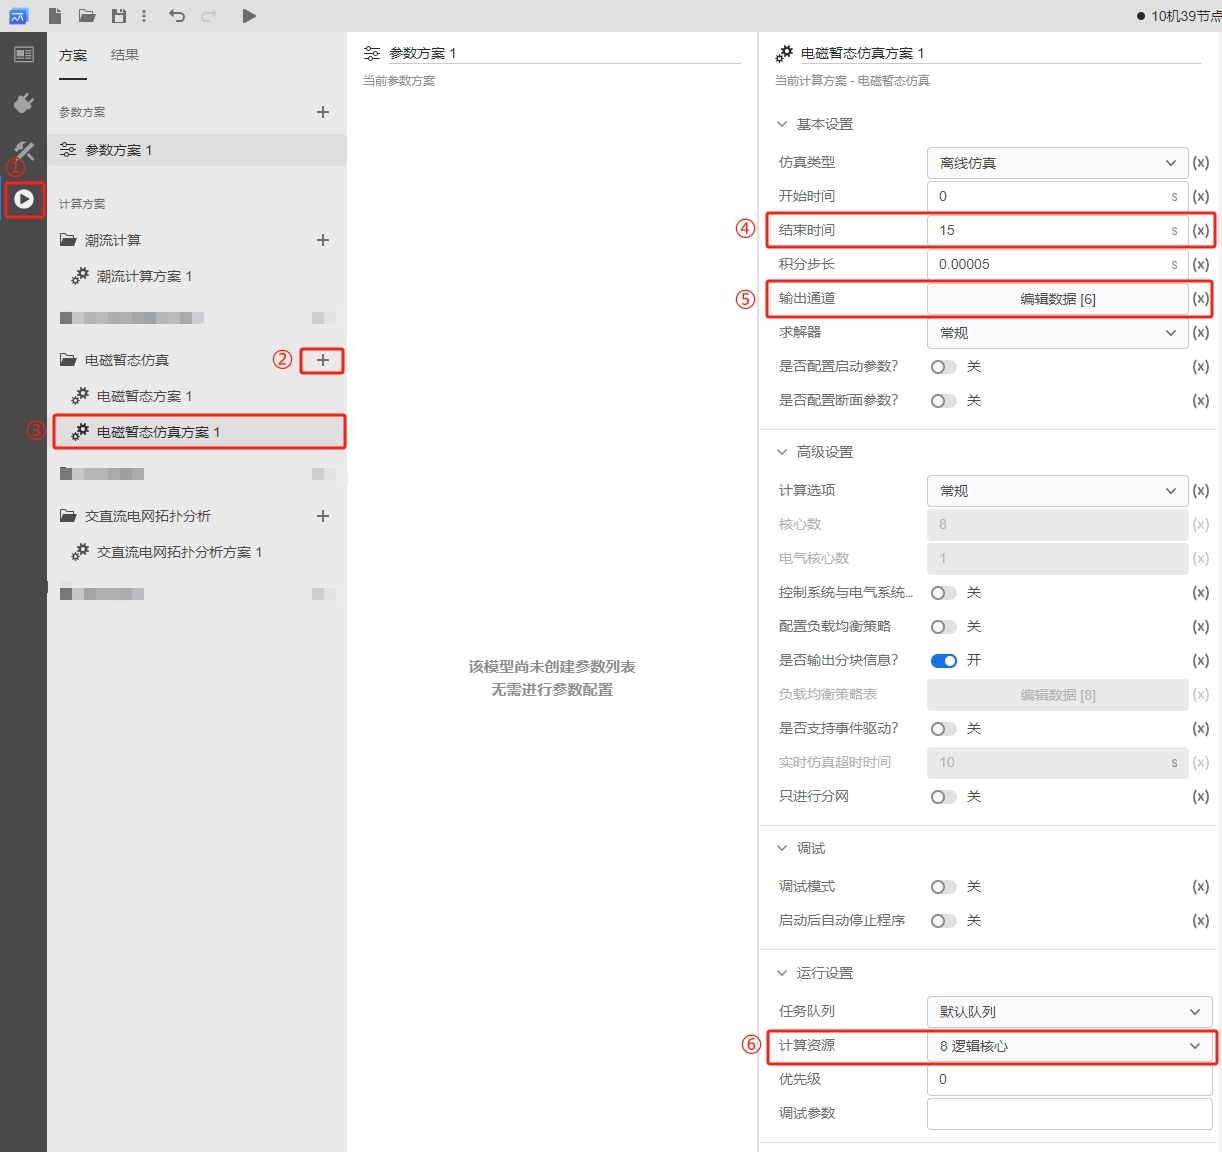
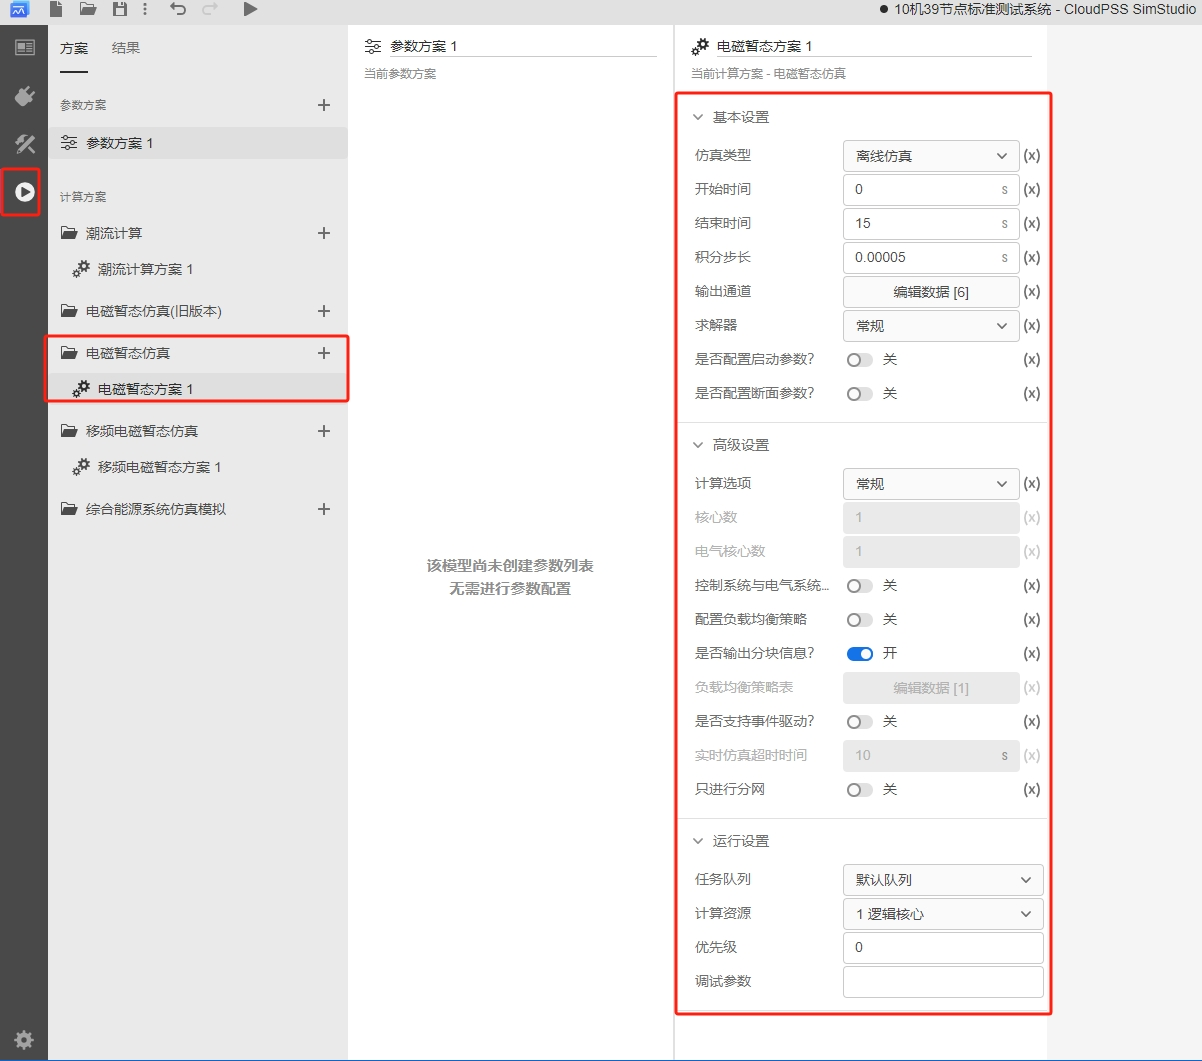
docs: 修改EMTLab文档

diff --git a/docs/docs/software/emtlab/fast-intro/build/index.md b/docs/docs/software/emtlab/fast-intro/build/index.md
@@ -3,14 +3,14 @@ title: 搭建入门案例
 description: 搭建入门案例
 sidebar_position: 20
 ---
-本节主要介绍两个入门案例：RLC电路的电磁暂态仿真和五节点电力网络的潮流计算仿真，用户可通过搭建入门案例熟悉 EMTLab 的电磁暂态仿真和潮流计算仿真的使用。
+本节主要介绍两个入门案例：RLC 电路的电磁暂态仿真和五节点电力网络的潮流计算仿真，用户可通过搭建入门案例熟悉 EMTLab 的电磁暂态仿真和潮流计算仿真的使用。
 
 import Tabs from '@theme/Tabs';
 import TabItem from '@theme/TabItem';
 
 <Tabs>
-<TabItem value="case1" label="RLC电路的电磁暂态仿真">
-本案例主要介绍简单RLC串联电路的搭建及仿真过程。该RLC串联电路由单相交流电压源、电阻、电感、电容元件组成。
+<TabItem value="case1" label="RLC 电路的电磁暂态仿真">
+本案例主要介绍简单 RLC 串联电路的搭建及仿真过程。该 RLC 串联电路由单相交流电压源、电阻、电感、电容元件组成。
 
 #### 放置元件
 - 首先在 CloudPSS SimStudio 工作台，点击新建电力系统仿真项目。
@@ -21,7 +21,7 @@ import TabItem from '@theme/TabItem';
 
 ![放置元件界面 =x400](./place-components.png)
 
-- 可利用鼠标长按元件进行拖动或选中元件后用**键盘方向键**改变元件位置。可以**鼠标右键**点击元件进行元件的剪切、复制、粘贴、创建副本、删除、隐藏元件名称等操作，或者通过快捷键快速实现上述操作。点击元件上方的圆形箭头或利用 `Ctrl+R` 对元件进行旋转。元件放置结束后的工作空间如上图所示。
+- 可利用鼠标长按元件进行拖动或选中元件后用**键盘方向键**改变元件位置。可以**鼠标右键**点击元件进行元件的剪切、复制、粘贴、创建副本、删除、隐藏元件名称等操作，或者通过快捷键快速实现上述操作。点击元件上方的圆形箭头或利用 `Ctrl` + `R` 对元件进行旋转。元件放置结束后的工作空间如上图所示。
 
 #### 连接元件
 - 将鼠标光标移至元件引脚处，若该引脚出现蓝色圆形阴影，说明该引脚可用。此时单击该引脚，按住**鼠标左键**并移动光标至需要被连线的引脚处，当该引脚处出现橙色边框，松开**鼠标左键**即完成两个元件的连线。在连线后，选中连线并在连线路径上单击**鼠标左键**可以在该处设置拐点，拐点可以被拖动调整位置。元件连接示例如图所示。
@@ -44,15 +44,15 @@ import TabItem from '@theme/TabItem';
 ![设置参数界面 =x300](parameter-setting.png)
 
 #### 添加测量元件
-- 完成电路拓扑的搭建之后，需添加量测元件对电气量进行测量或输出，常用的量测元件有**电压表**、**支路电压表**以及**电流表**。以电压表为例，在左侧**模型**栏中点击**量测**选择**电压表**元件拖拽至工作空间，并连接至电路。点击该元件出现参数配置面板，填写该电压表测得电压信号的名称，以 # 号开头。
+- 完成电路拓扑的搭建之后，需添加量测元件对电气量进行测量或输出，常用的量测元件有**电压表**、**支路电压表**以及**电流表**。以电压表为例，在左侧**模型**栏中点击**量测**选择**电压表**元件拖拽至工作空间，并连接至电路。点击该元件出现参数配置面板，填写该电压表测得电压信号的名称，以 `#` 号开头。
 
 ![添加电压表并进行配置 =x200](measure-setting.png)
 
-- 此外，电气元件本身支持部分内部量输出，也即不需要外加量测元件，也可以输出测量信号。如在电阻元件中添加量测，点击电阻元件,在参数的 Monitoring 中填写以 # 号开头的量测信号输出名称即可。更多关于信号名称的信息，详见：[参数及引脚体系](../../simstudio/basic/parameterSystem/index.md)
+- 此外，电气元件本身支持部分内部量输出，也即不需要外加量测元件，也可以输出测量信号。如在电阻元件中添加量测，点击电阻元件,在参数的 `Monitoring` 中填写以 `#` 号开头的量测信号输出名称即可。更多关于信号名称的信息，详见：[参数及引脚体系](../../simstudio/basic/parameterSystem/index.md)
 
 #### 添加输出通道
 - 量测元件只对电气量进行采集，如需显示还需加入输出元件。 EMTLab 的输出波形显示需同时用到示波器分组以及输出通道。输出通道类比与实际物理示波器的探头，示波器分组类比于任意通道数的实际物理示波器。
-- 在左侧**模型**栏中点击**输出**选择**输出通道**元件拖拽至工作空间，单击设置参数，如下图所示。通道名称设定为：电压源端电压，输入信号维数设定为 1，因为采集得到的电压源端电压为 1 维。输入引脚填写为以 # 号开头的电压表测量输出信号名称 #Vs。
+- 在左侧**模型**栏中点击**输出**选择**输出通道**元件拖拽至工作空间，单击设置参数，如下图所示。通道名称设定为：电压源端电压，输入信号维数设定为 1，因为采集得到的电压源端电压为 1 维。输入引脚填写为以 `#` 号开头的电压表测量输出信号名称 `#Vs`。
 
 ![配置输出通道 =x300](./output-setting.png)
 
@@ -62,7 +62,7 @@ import TabItem from '@theme/TabItem';
 
 #### 仿真运行方法
 - 点击左侧**运行标签页**，分别配置仿真的**参数方案**和**计算方案**。参数方案是对该项目的参数列表的参数进行配置。在计算方案中选择**电磁暂态仿真方案**，可对电磁暂态仿真方案中的仿真参数进行配置（如，基本设置、 求解器设置、启动/断面参数）。其中，示波器分组可在**电磁暂态仿真方案->输出通道->编辑数据**进行设置，点击**输出通道->编辑数据**，弹出输出通道页面，可以对示波器分组名称、采样频率、窗口类型、窗口宽度、示波器输出通道进行设置。
-- 由于本算例比较简单，在此采用平台预置**参数方案**，无需对其进行配置，在计算方案中选择**电磁暂态仿真方案**设置仿真结束时间为2s，积分步长为0.00001s，如下图所示:
+- 由于本算例比较简单，在此采用平台预置**参数方案**，无需对其进行配置，在计算方案中选择**电磁暂态仿真方案**设置仿真结束时间为 2s，积分步长为 0.00001s，如下图所示:
 
 ![电磁暂态仿真方案设置 =x450](./running-setting.png)
 
@@ -79,7 +79,7 @@ import TabItem from '@theme/TabItem';
 本案例主要介绍五节点电力网络的搭建及仿真过程。该五节点电力网络由发电机、变压器、传输线、负荷及交流母线组成。
 
 #### 五节点电力网络潮流计算原理
-如图所示。母线 1、2、3 为PQ节点，各节点的负荷分别为：${S_1} = 1.6 + j0.8$,${S_2} = 2 + j1$,${S_3} = 3.7 + j1.3$;节点 4 为 PV 节点，给定 ${P_4} = 5$,${V_4} = 1.05$;节点5为平衡节点，给定 ${V_5} = 1.05 \angle {0^ \circ }$。
+如图所示。母线 1、2、3 为 PQ 节点，各节点的负荷分别为：${S_1} = 1.6 + j0.8$,${S_2} = 2 + j1$,${S_3} = 3.7 + j1.3$;节点 4 为 PV 节点，给定 ${P_4} = 5$,${V_4} = 1.05$;节点 5 为平衡节点，给定 ${V_5} = 1.05 \angle {0^ \circ }$。
 
 ![五节点电力网络仿真图 =x300](./schematic.png)
 
@@ -114,7 +114,7 @@ import TabItem from '@theme/TabItem';
 
 ![放置元件界面 =x400](./place-components-1.png)
 
-- 可利用鼠标长按元件进行拖动或选中元件后用**键盘方向键**改变元件位置。可以**鼠标右键**点击元件进行元件的剪切、复制、粘贴、创建副本、删除、隐藏元件名称等操作，或者通过快捷键快速实现上述操作。点击元件上方的圆形箭头或利用 `Ctrl+R` 对元件进行旋转。元件放置结束后的工作空间如上图所示。
+- 可利用鼠标长按元件进行拖动或选中元件后用**键盘方向键**改变元件位置。可以**鼠标右键**点击元件进行元件的剪切、复制、粘贴、创建副本、删除、隐藏元件名称等操作，或者通过快捷键快速实现上述操作。点击元件上方的圆形箭头或利用 `Ctrl` + `R` 对元件进行旋转。元件放置结束后的工作空间如上图所示。
 
 #### 连接元件
 - 将鼠标光标移至元件引脚处，若该引脚出现蓝色圆形阴影，说明该引脚可用。此时单击该引脚，按住**鼠标左键**并移动光标至需要被连线的引脚处，当该引脚处出现橙色边框，松开**鼠标左键**即完成两个元件的连线。在连线后，选中连线并在连线路径上单击**鼠标左键**可以在该处设置拐点，拐点可以被拖动调整位置。元件连接示例如图所示。

diff --git a/docs/docs/software/emtlab/power-flow-calc/job/index.md b/docs/docs/software/emtlab/power-flow-calc/job/index.md
@@ -14,9 +14,9 @@ EMTLab 提供的潮流计算计算方案设置功能。
 要使用 EMTLab 提供的潮流计算功能，首先需要搭建满足要求的算例。本小节介绍 EMTLab 支持潮流计算的元件和潮流计算前所需的元件设置。
 
 #### 支持潮流计算的设备元件
-目前，潮流计算功能支持的设备元件包含**静态负载**、**三相交流电压源**、**同步发电机**、**并联电容/电抗器**、**三相传输线**、**三相电阻**、**三相电感**、**三相电容**、**三相双绕组变压器**和**三相三绕组变压器**，更多元件支持将在后续版本中逐步加入。
+目前，潮流计算功能支持的设备元件包含**静态负载**、**三相交流电压源**、**同步发电机**、**并联电容/电抗器**、**三相传输线**、**三相电阻**、**三相电感**、**三相电容**、**三相双绕组变压器**、**三相三绕组变压器**、**风机模型**和**光伏电站模型**，更多元件支持将在后续版本中逐步加入。
 
-潮流计算功能是围绕着**三相交流母线**进行的。因此，上述设备元件中，单电气端口的元件（静态负载、三相交流电压源、同步发电机、并联电容/电抗器）只有当其电气端口与母线直接相连时，才会被计入；对于多电气端口的元件，则其每一个电气端口都必须与母线直接相连。特别地，电流表可以串入电路中，在潮流计算过程中将被忽略。
+潮流计算功能是围绕着**三相交流母线**进行的。因此，上述设备元件中，单电气端口的元件只有当其电气端口与母线直接相连时，才会被计入；对于多电气端口的元件，则其每一个电气端口都必须与母线直接相连。特别地，电流表可以串入电路中，在潮流计算过程中将被忽略。
 
 :::tip
 - 每条母线至多连接一个电源（三相交流电压源或同步发电机），未连接电源的母线将作为 PQ 节点参与计算。
@@ -107,6 +107,38 @@ import TabItem from '@theme/TabItem';
 | :--- | :--- | :--- | :--- |
 | Rated Voltage (L-L, RMS) | kV | 额定线电压有效值 | 与容量一起决定潮流计算时的对地电纳 |
 | Input Capacity | MVar | 投入容量（电容为负，电抗为正） |  与电压一起决定潮流计算时的对地电纳|
+</TabItem>
+
+<TabItem value="component6" label="风机模型">
+风机模型包括**双馈风机风电场模型_含外部控制**、**双馈风机风场等值模型**、**风场等值模型I：PMSG网侧变流器模型**和**直驱风机风电场模型_含外部控制**四种模型，这四种模型的潮流参数值如下图所示，具体的参数说明可见表格：
+
+![风机模型潮流初值设置 =x200](./dfig-setting.png)
+
+| 参数名称 | 单位 | 备注 | 说明 |
+| :--- | :--- | :--- | :--- |
+| Bus Type |  | 节点类型 | 潮流计算时指定电源所在母线的节点类型，可选择**PQ Bus**，**PV Bus**或**Slack Bus** |
+| Injected Active Power | MW | 节点注入有功功率 | 潮流计算时 **PV**、**PQ** 节点的注入有功功率 |
+| Injected Reactive Power | MVar | 节点注入无功功率 |  **PQ** 节点的注入无功功率 |
+| Lower Voltage Limit | p.u. | 母线电压下限 | 由节点的电压基准值转换为有名值，决定 **PQ** 节点电压下界，越界后该节点由无功约束转为电压约束 |
+| Upper Voltage Limit | p.u. | 母线电压上限 | 由节点的电压基准值转换为有名值，决定 **PQ** 节点电压上界，越界后该节点由无功约束转为电压约束 |
+| Bus Voltage Magnitude | p.u. | 母线电压幅值 | 由节点的电压基准值转换为有名值，决定 **PV** 节点的电压幅值 |
+| Lower Reactive Power Limit| MVar | 无功功率下限 | **PV** 节点和**平衡节点**的注入无功下界，越界后该节点由电压约束转为无功约束 |
+| Upper Reactive Power Limit| MVar | 无功功率上限 | **PV** 节点和**平衡节点**的注入无功上界，越界后该节点由电压约束转为无功约束 |
+| Bus Voltage Angle | Deg | 母线电压相位 | **平衡节点**的相角 |
+</TabItem>
+
+<TabItem value="component7" label="光伏电站模型">
+光伏电站模型包括**光伏电站模型_含外部控制**和**光伏电站模型**两种模型，这两种模型的潮流参数值如下图所示，具体的参数说明可见表格：
+
+![光伏电站模型潮流初值设置 =x200](./pv-station-setting.png)
+
+| 参数名称 | 单位 | 备注 | 说明 |
+| :--- | :--- | :--- | :--- |
+| 额定容量 | MVA | 光伏系统的额定容量 | 用于在潮流计算过程中将有功功率和无功功率转换为有名值 |
+| 有功初值 | p.u. | 光伏系统的注入有功功率标幺值 | 用于在潮流计算中设置 **PQ** 节点的注入有功 |
+| 无功初值 | p.u. | 光伏系统的注入无功功率标幺值 | 用于在潮流计算中设置 **PQ** 节点的注入无功 |
+| 机端电压初值 | p.u. | 光伏系统的机端电压标幺值 | 潮流回写时，将电压迭代值写回该参数 |
+| 电压初始相位 | Deg | 光伏系统的电压相位 | 潮流回写时，将电压相位迭代值写回该参数 |
 </TabItem>
 </Tabs>
 
@@ -243,7 +275,7 @@ import TabItem from '@theme/TabItem';
 
 | 参数名 | 含义 | 说明 |
 | :--- | :--- | :--- | 
-| 求解方式 | 潮流求解方式的选择 | 可选择**潮流计算**，**功率不平衡量计算**，**生成潮流文件**。选择**潮流计算**时，进行完整的潮流计算，潮流计算反复迭代直至收敛或达到最大迭代次数；**功率不平衡量计算**和**生成潮流文件**为辅助功能选项，选择**功率不平衡量计算**时，仅求解当前母线电压下，系统的功率不平衡量；选择**生成潮流文件**，生成 IEEE Common Format 格式潮流文件，用于进行数据交互 |
+| 求解方式 | 潮流求解方式的选择 | 可选择**潮流计算**，**功率不平衡量计算**，**生成潮流文件**。选择**潮流计算**时，进行完整的潮流计算，潮流计算反复迭代直至收敛或达到最大迭代次数；**功率不平衡量计算**和**生成潮流文件**为辅助功能选项，选择**功率不平衡量计算**时，仅求解当前母线电压下，系统的功率不平衡量；选择**生成潮流文件**，生成 `IEEE Common Format` 格式潮流文件，用于进行数据交互 |
 | 最大迭代次数 | 潮流计算的最大迭代次数 | 仅求解方式选择**潮流计算**时有效，设置潮流计算的最大迭代次数 |
 </TabItem>
 
@@ -274,7 +306,7 @@ import TabItem from '@theme/TabItem';
 怎么导出 EMTLab 的潮流计算的结果
 
 :
-    潮流计算的结果页面会展示 Buses 和 Branches 两个潮流数据表格，鼠标悬浮在表格上时，表格的右上角会出现导出数据按钮，点击按钮可将表格中的数据导出为 CSV 格式。
+    潮流计算的结果页面会展示 `Buses` 和 `Branches` 两个潮流数据表格，鼠标悬浮在表格上时，表格的右上角会出现导出数据按钮，点击按钮可将表格中的数据导出为 CSV 格式。
 
     ![导出数据为 CSV 格式](./export.png)
 

diff --git a/docs/docs/software/emtlab/emtp-calc/job/index.md b/docs/docs/software/emtlab/emtp-calc/job/index.md
@@ -83,7 +83,7 @@ import TabItem from '@theme/TabItem';
 
 ![新建 IEEE39 节点算例 =x400](./new-case.png)
 
-- 点击**运行**标签页，新建电磁暂态仿真计算方案，选中并开始设置仿真方案：首先将结束时间设置为 15s，输出通道按照下图进行设置，计算选项为默认的常规选项，最后选择计算资源为 8 逻辑核心（计算资源可根据用户需求自行更改）。
+- 点击**运行**标签页，新建电磁暂态仿真计算方案，选中并开始设置仿真方案：将结束时间设置为 15s，输出通道按照下图进行设置，计算选项为默认的常规选项，选择计算资源为 1 逻辑核心（计算资源可根据用户需求自行更改）。
 
 ![计算方案配置 1 =x500](./emt-simulation-scheme-1.png)
 
@@ -102,6 +102,4 @@ import TabItem from '@theme/TabItem';
     积分步长取决于所要研究的内容的时间常数，比如受同步发电机主导的传统电力系统，时间常数一般在毫秒到秒的时间范围；以电力电子设备和新能源大规模接入的新能源系统时间常数范围为微秒级。无论在什么仿真情况下，要求仿真步长（积分步长）不大于所模拟系统最小时间常数的 1/20。当然，积分步长越小，仿真精度越高，但所需仿真时间越长，用户需要根据仿真研究内容进行积分步长的选择。
 
 
-<!-- 运行设置中的调试参数有什么常见用法
-: -->
 

diff --git a/docs/docs/software/emtlab/power-flow-calc/write-back/index.md b/docs/docs/software/emtlab/power-flow-calc/write-back/index.md
@@ -10,7 +10,7 @@ EMTLab 的潮流结果写回及初始化功能。
 
 ## 功能说明
 ### 潮流数据说明
-运行潮流计算后，结果页面会展示 Buses 和 Branches 两个潮流数据表格，以下分别对这两个表格的参数进行说明：
+运行潮流计算后，结果页面会展示 `Buses` 和 `Branches` 两个潮流数据表格，以下分别对这两个表格的参数进行说明：
 
 ![潮流数据表格 =x400](./power-flow-data.png)
 

diff --git a/docs/docs/software/emtlab/prior-management/auth/index.md b/docs/docs/software/emtlab/prior-management/auth/index.md
@@ -4,15 +4,6 @@ description: 权限、优先级管理
 sidebar_position: 30
 ---
 
+import Strategy from '../../../account/settings/strategy/index.md';
 
-## 功能定义
-
-## 文档摘要
-
-## 功能说明
-
-
-## 案例
-
-
-## 常见问题 Q&A
+<Strategy />

diff --git a/docs/docs/software/emtlab/prior-management/calculation-resource/index.md b/docs/docs/software/emtlab/prior-management/calculation-resource/index.md
@@ -4,15 +4,6 @@ description: 计算资源管理
 sidebar_position: 10
 ---
 
+import Queue from '../../../account/settings/queue/index.md';
 
-## 功能定义
-
-## 文档摘要
-
-## 功能说明
-
-
-## 案例
-
-
-## 常见问题 Q&A
+<Queue />

diff --git a/docs/docs/software/emtlab/prior-management/task/index.md b/docs/docs/software/emtlab/prior-management/task/index.md
@@ -4,15 +4,7 @@ description: 任务管理
 sidebar_position: 20
 ---
 
-## 功能定义
+import Task from '../../../account/settings/task/index.md';
 
-## 文档摘要
-
-## 功能说明
-
-
-## 案例
-
-
-## 常见问题 Q&A
+<Task />
 

diff --git a/docs/docs/software/emtlab/fast-intro/guide/index.md b/docs/docs/software/emtlab/fast-intro/guide/index.md
@@ -1,5 +1,5 @@
 ---
-title: 帮组向导
+title: 帮助向导
 description: CloudPSS EMTLab文档使用指南
 sidebar_position: 30
 ---
